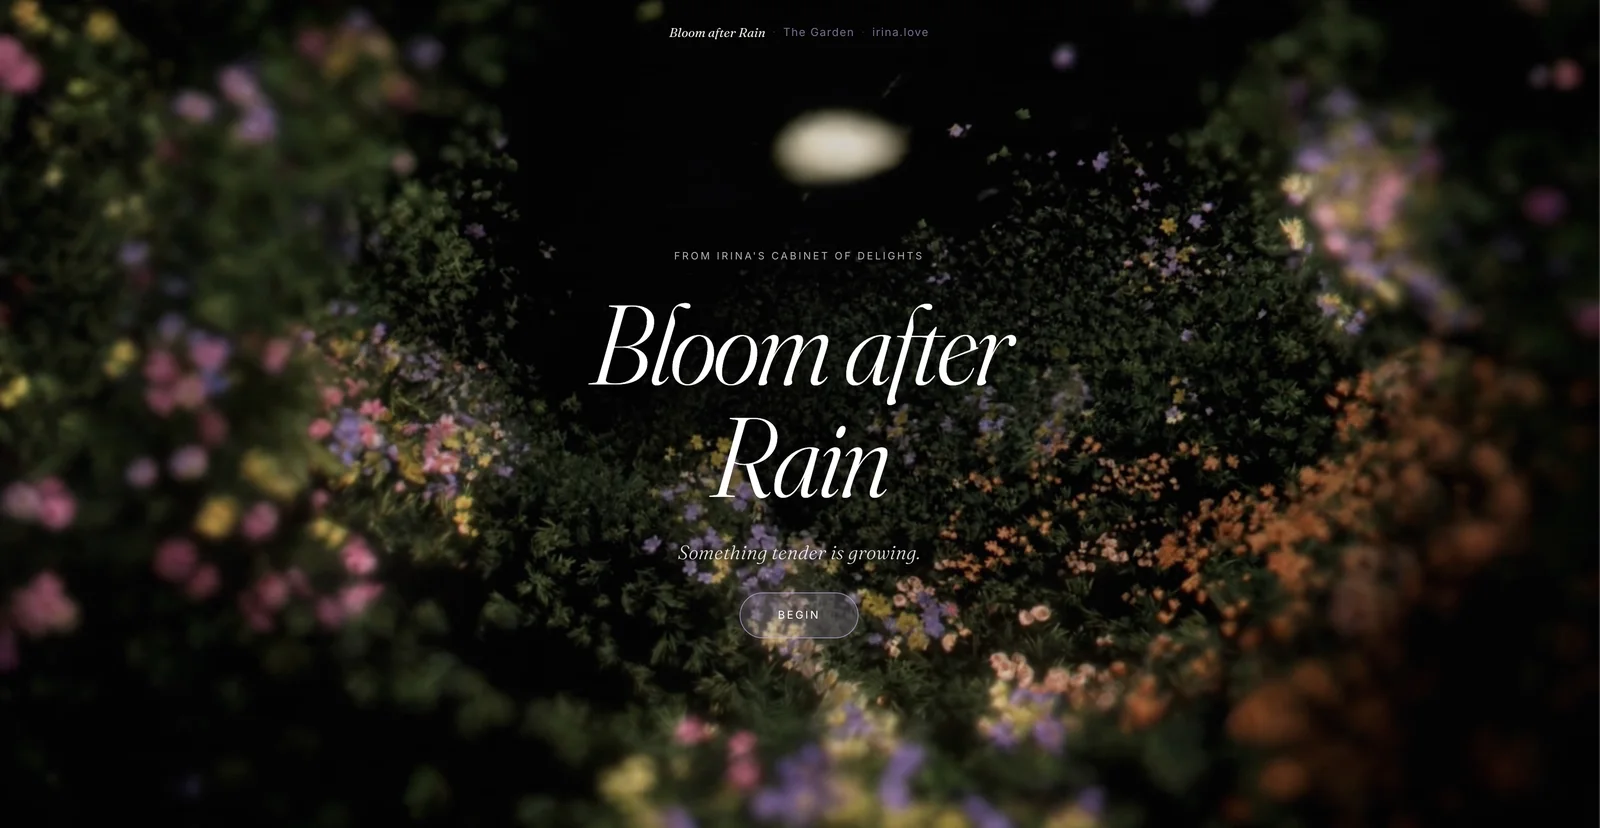
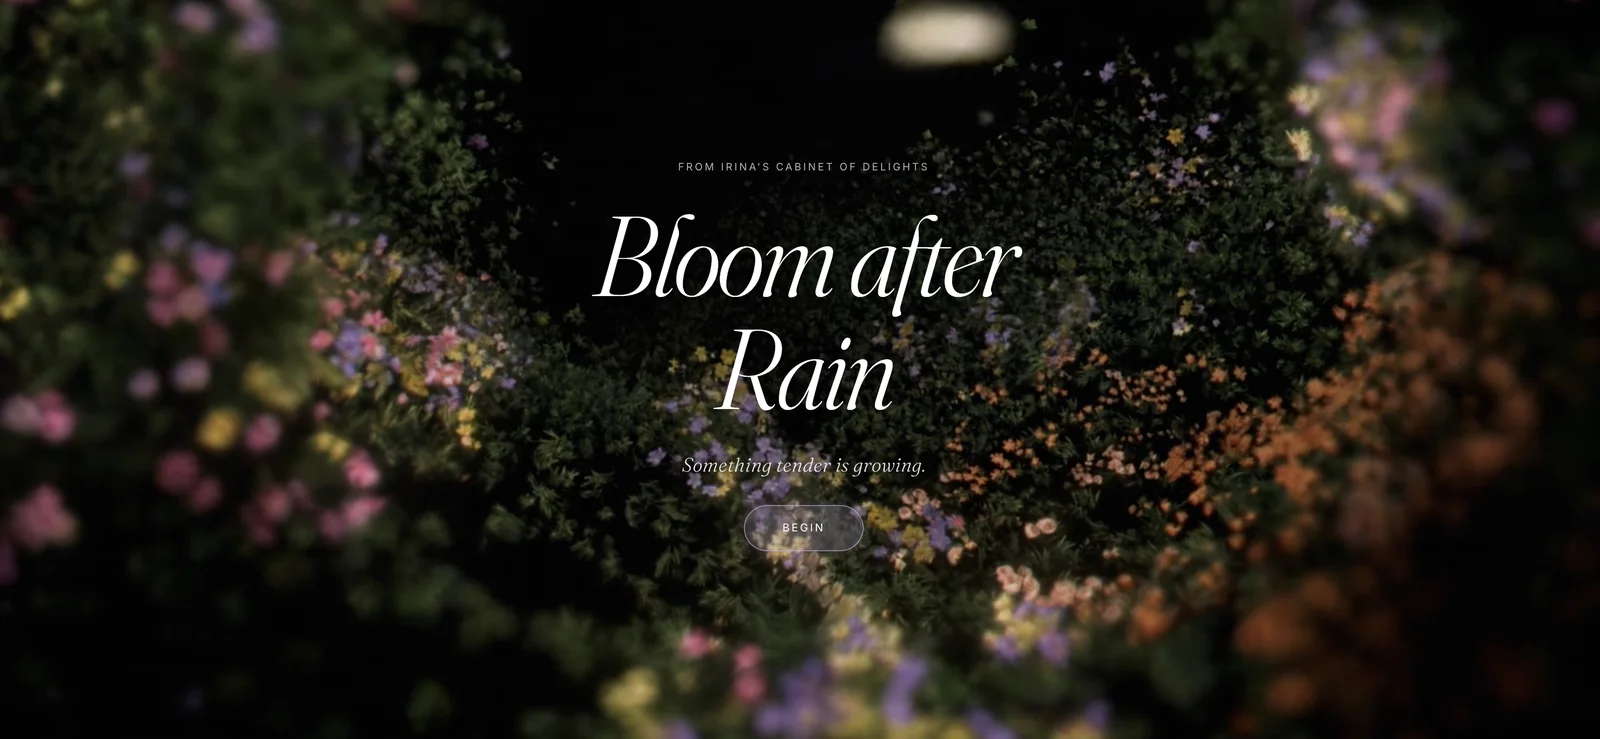
Amends to UI

diff --git a/website_source/index.html b/website_source/index.html
@@ -529,23 +529,23 @@
   #specimen-03 .status-dot { background: oklch(80% 0.13 85); }
   #specimen-03 .media-caption { color: oklch(65% 0.05 82); }
 
-  .sleeve { position: relative; }
+  .sleeve {
+    position: relative;
+    width: min(440px, 100%);
+    margin: 0 auto;
+    aspect-ratio: 1;
+    border-radius: 50%;
+    overflow: hidden;
+    border: 1px solid oklch(80% 0.13 85 / 0.4);
+    box-shadow:
+      0 0 60px oklch(60% 0.1 82 / 0.3),
+      0 18px 60px oklch(10% 0.02 70 / 0.65);
+  }
   .sleeve img {
+    width: 100%;
+    height: 100%;
     aspect-ratio: 1;
     object-fit: cover;
-    box-shadow: 0 18px 60px oklch(10% 0.02 70 / 0.65);
-  }
-  .sleeve::after {
-    content: '';
-    position: absolute;
-    top: 6%; right: -13%;
-    width: 88%; aspect-ratio: 1;
-    border-radius: 50%;
-    z-index: -1;
-    background:
-      radial-gradient(circle at center, oklch(80% 0.13 85) 0 11%, oklch(15% 0.01 70) 11.5% 13%, transparent 13.5%),
-      repeating-radial-gradient(circle at center, oklch(14% 0.012 70) 0 2px, oklch(19% 0.015 70) 2px 4px);
-    box-shadow: 0 10px 40px oklch(8% 0.01 70 / 0.7);
   }
 
   /* ════ WORLD 04 · BLOOM — after-rain green ════ */
@@ -1106,9 +1106,8 @@
   <div class="wrap">
     <div class="footer-grid mono">
       <span>irina.love <span class="fleuron">✳</span> tools of delight</span>
-      <span>Set in Fraunces, Newsreader &amp; Fragment Mono</span>
       <a href="mailto:hello@irina.love">hello@irina.love</a>
-      <span>© 2026 · made with attention</span>
+      <span>© 2026 · made with love</span>
     </div>
   </div>
 </footer>
